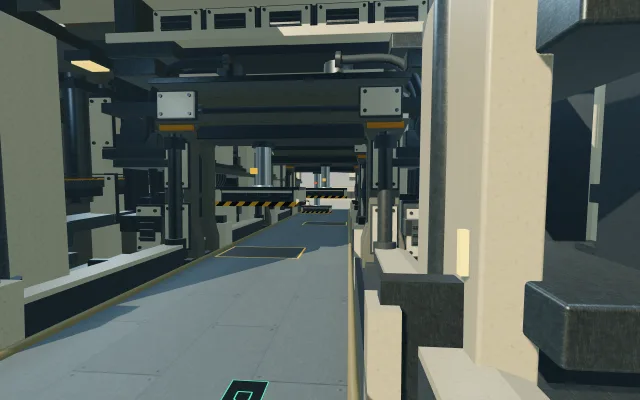
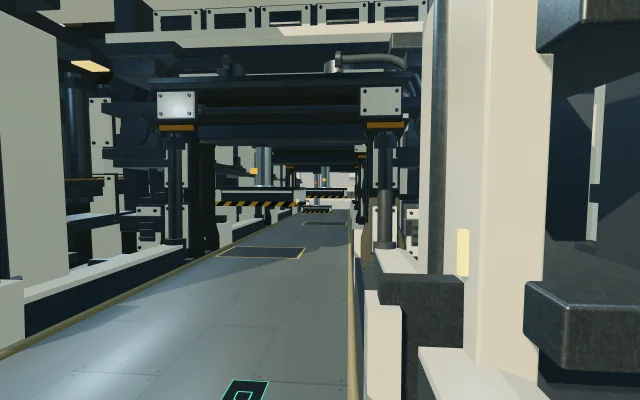
art(colossus): separate enamel, casting and worked steel

diff --git a/worldkit/modules/industrial/src/finish.js b/worldkit/modules/industrial/src/finish.js
@@ -102,9 +102,9 @@ export function createIndustrialFinish(renderer = null) {
           `#include <roughnessmap_fragment>
           vec3 iw=pow(abs(normalize(cross(dFdx(industrialPoint),dFdy(industrialPoint)))),vec3(4.));iw/=max(.001,iw.x+iw.y+iw.z);
           vec3 detailColor=${sample};float detailLuma=dot(detailColor,vec3(.299,.587,.114));
-          diffuseColor.rgb*=mix(vec3(1.),detailColor*${kind === 'shell' ? '1.4' : '3.6'},${coordinates === 'road' ? '.28' : kind === 'shell' ? '(.10+.28*smoothstep(.55,.8,industrialNoise(industrialPoint.xz*.015)))' : kind === 'dark' ? '.3' : kind === 'machined' ? '.18' : kind === 'cast' ? '.42' : '.63'});
+          diffuseColor.rgb*=mix(vec3(1.),detailColor*${kind === 'shell' ? '1.4' : '3.6'},${coordinates === 'road' ? '.075' : kind === 'shell' ? '(.04+.09*smoothstep(.55,.8,industrialNoise(industrialPoint.xz*.015)))' : kind === 'dark' ? '.3' : kind === 'machined' ? '.18' : kind === 'cast' ? '.42' : '.63'});
           ${kind === 'machined' && coordinates === 'part' ? `vec3 partNormal=normalize(cross(dFdx(industrialLocal),dFdy(industrialLocal)));float turning=mix(industrialLocal.y,length(industrialLocal.xz),step(.75,abs(partNormal.y)))*9.;float toolMark=sin(turning*6.28318)*(1.-smoothstep(.4,1.5,fwidth(turning)));roughnessFactor+=toolMark*.045;diffuseColor.rgb*=.96+toolMark*.025;` : ''}
-          roughnessFactor=clamp(roughnessFactor+${kind === 'shell' ? '(.7-detailLuma)*.22' : '(detailLuma-.18)*.24'},.24,.92);`,
+          roughnessFactor=clamp(roughnessFactor+${kind === 'shell' ? '(.7-detailLuma)*.10' : '(detailLuma-.18)*.24'},.24,.92);`,
         );
         // A small surface gradient breaks perfectly flat reflections while the
         // authored metre scale keeps the finish from becoming coarse concrete.
@@ -115,12 +115,12 @@ export function createIndustrialFinish(renderer = null) {
           vec3 sx=dFdx(-vViewPosition),sy=dFdy(-vViewPosition);
           vec3 rx=cross(sy,normal),ry=cross(normal,sx);
           float det=dot(sx,rx);
-          vec2 slope=vec2(dFdx(detailLuma),dFdy(detailLuma))*${kind === 'shell' ? '.015' : kind === 'cast' ? '.045' : kind === 'machined' ? '.002' : '.008'};
+          vec2 slope=vec2(dFdx(detailLuma),dFdy(detailLuma))*${kind === 'shell' ? '.003' : kind === 'cast' ? '.045' : kind === 'machined' ? '.002' : '.008'};
           normal=normalize(abs(det)*normal-sign(det)*(slope.x*rx+slope.y*ry));`,
           );
       };
       material.customProgramCacheKey = () =>
-        key + '-industrial-map-v5-' + kind + '-' + coordinates;
+        key + '-industrial-map-v6-' + kind + '-' + coordinates;
     },
     dispose() {
       if (disposed) return;

diff --git a/games/vector-nova/src/levels/colossus/track/road.js b/games/vector-nova/src/levels/colossus/track/road.js
@@ -6,9 +6,9 @@ import { createColossusPaint } from './presentation.js';
 function workingSteel(shape, track) {
   const material = new T.MeshStandardMaterial({
     name: 'Colossus / worn working-channel steel',
-    color: shape ? '#a0a7ac' : '#7f919a',
-    roughness: 0.68,
-    metalness: shape ? 0.1 : 0.4,
+    color: shape ? '#a0a7ac' : '#7c898c',
+    roughness: shape ? 0.68 : 0.57,
+    metalness: shape ? 0.1 : 0.74,
   });
   if (!shape) {
     material.onBeforeCompile = (shader) => {
@@ -68,19 +68,23 @@ float steelNoise(vec2 p){vec2 i=floor(p),f=fract(p);f=f*f*(3.-2.*f);return mix(m
           float workZone=clamp(workRange(p.x,millZone)+workRange(p.x,headZone),0.,1.);
           float contact=exp(-pow((abs(p.y)-14.)/8.,2.))*workZone;
           float returnWear=workRange(p.x,returnZone)*(1.-smoothstep(10.,29.,abs(p.y)));
-          float workingWear=max(contact,returnWear*.65)*(.7+.3*steelNoise(p*vec2(.006,.22)));
+          // Broad longitudinal roll contact carries the metal response throughout the works.
+          float feedOffset=sin(p.x*.003)*1.5;
+          float feedPolish=exp(-pow((abs(p.y-feedOffset)-12.)/6.5,2.));
+          float workPatch=.65+.35*steelNoise(p*vec2(.008,.07));
+          float workingWear=max(max(contact,returnWear*.65),feedPolish*.8)*workPatch;
           diffuseColor.rgb=mix(diffuseColor.rgb,vec3(.16,.19,.19),grime*.35);
-          diffuseColor.rgb*=.94+steelHash(floor(plate/vec2(48.,18.)))*.1+broad*.05;
-          diffuseColor.rgb=mix(diffuseColor.rgb,diffuseColor.rgb*1.12,workingWear);
+          diffuseColor.rgb*=.91+steelHash(floor(plate/vec2(48.,18.)))*.15+broad*.035;
+          diffuseColor.rgb=mix(diffuseColor.rgb,diffuseColor.rgb*1.2,workingWear);
           diffuseColor.rgb*=1.-seams*.48-longitudinal*.3-fastener*.32;
         `,
         )
         .replace(
           '#include <roughnessmap_fragment>',
-          '#include <roughnessmap_fragment>\nroughnessFactor=clamp(roughnessFactor+grime*.16-workingWear*.14,.44,.88);',
+          '#include <roughnessmap_fragment>\nroughnessFactor=clamp(roughnessFactor+grime*.2-workingWear*.22,.34,.88);',
         );
     };
-    material.customProgramCacheKey = () => 'colossus-working-steel-v5';
+    material.customProgramCacheKey = () => 'colossus-working-steel-v6';
   }
   return material;
 }
@@ -200,7 +204,7 @@ export function createColossusRoad({
     setReflection(texture) {
       for (const m of materials) {
         m.envMap = texture;
-        m.envMapIntensity = 0.5;
+        m.envMapIntensity = m === steel ? 0.85 : 0.5;
         m.needsUpdate = true;
       }
     },

diff --git a/worldkit/modules/industrial/src/index.js b/worldkit/modules/industrial/src/index.js
@@ -8,10 +8,10 @@ export function createIndustrialKit({ finish = null } = {}) {
     shell: new T.MeshPhysicalMaterial({
       name: 'Worldkit / enamel machine casings',
       color: '#c7c4af',
-      roughness: 0.36,
-      clearcoat: 0.42,
-      clearcoatRoughness: 0.3,
-      metalness: 0.12,
+      roughness: 0.24,
+      clearcoat: 0.72,
+      clearcoatRoughness: 0.2,
+      metalness: 0.06,
     }),
     steel: new T.MeshStandardMaterial({
       name: 'Worldkit / working steel',
@@ -27,8 +27,8 @@ export function createIndustrialKit({ finish = null } = {}) {
     }),
     cast: new T.MeshStandardMaterial({
       name: 'Worldkit / rough cast bearing bodies',
-      color: '#7b827c',
-      roughness: 0.74,
+      color: '#626a63',
+      roughness: 0.84,
       metalness: 0.36,
     }),
     machined: new T.MeshStandardMaterial({

diff --git a/games/vector-nova/src/levels/colossus/environment/index.js b/games/vector-nova/src/levels/colossus/environment/index.js
@@ -1873,7 +1873,14 @@ export function createColossusEnvironment({
       for (const m of [...materials, ...Object.values(kit.materials)])
         if (m.isMeshStandardMaterial) {
           m.envMap = texture;
-          m.envMapIntensity = m === polished ? 0.9 : 0.65;
+          m.envMapIntensity =
+            m === kit.materials.shell
+              ? 1.45
+              : m === kit.materials.cast
+                ? 0.35
+                : m === polished || m === kit.materials.machined
+                  ? 0.95
+                  : 0.65;
           m.needsUpdate = true;
         }
     },

diff --git a/games/vector-nova/docs/levels/colossus.md b/games/vector-nova/docs/levels/colossus.md
@@ -14,6 +14,6 @@ Sources live in src/levels/colossus and Worldkit's industrial module. Use the no
 
 The circuit is approximately 9.44 km, with a 10 km ceiling. Keep the feature density high and avoid long empty connecting straights. Retain only the straight alignment required for fair jump launches and landings. Run npm run check:level -- colossus for route-contract validation.
 
-The factory occupies an excavated mountain shoulder. A connected heightfield joins local extraction benches and fractured cuts to asymmetric mountain ridges, lower foothills and an open valley. Geological strata and distance haze separate the landscape from the factory. Triangles split at bench contours to keep steep ledge boundaries continuous; route clearance limits the height field. The industrial finish owns shared generated steel/enamel maps; the road and machine kit borrow those textures. Separate material response distinguishes enamel, structural steel and concrete, under a warm key and cool sky fill. Open transfer rollers, tapered cast press frames, a stepped return powerhouse and plumb counterweight stations distinguish the production districts. Sheaves, guided weights and tensioned ropes share one placement frame and reduced-motion clock. Large staggered working plates retain flat contact geometry, with broad roller wear and dirt confined to stationary edges. Receiving halls and cooling banks use substantial recessed sections. The gantry load clears both cruise and boosted flight corridors.
+The factory occupies an excavated mountain shoulder. A connected heightfield joins local extraction benches and fractured cuts to asymmetric mountain ridges, lower foothills and an open valley. Geological strata and distance haze separate the landscape from the factory. Triangles split at bench contours to keep steep ledge boundaries continuous; route clearance limits the height field. The industrial finish owns shared generated steel/enamel maps; the road and machine kit borrow those textures. Cleaner coated enamel carries broad scene reflections and bevel highlights, while darker rough cast bodies and machined fittings retain distinct responses under the warm key and cool sky fill. The working sheet uses restrained grain, broad contact-polished bands and stationary edge dirt; fabrication joints and hazard paint remain dominant. Open transfer rollers, tapered cast press frames, a stepped return powerhouse and plumb counterweight stations distinguish the production districts. Sheaves, guided weights and tensioned ropes share one placement frame and reduced-motion clock. Large staggered working plates retain flat contact geometry, with broad roller wear and dirt confined to stationary edges. Receiving halls and cooling banks use substantial recessed sections. The gantry load clears both cruise and boosted flight corridors.
 
 Press shoes close in 0.24 seconds after an amber warning and hold the lane for 2.35 seconds. Ejectors cross the bed in 0.38 seconds, then lift before retracting. Opt-in bounded machinery contacts prevent the magnetic constraint from producing explosive crush velocities; deliberate impacts use the shared impact event, directional spark burst, camera response and impact sound. Section practice includes explicit press/ejector impact cases.

diff --git a/worldkit/modules/industrial/README.md b/worldkit/modules/industrial/README.md
@@ -1,6 +1,6 @@
 # Industrial assemblies
 
-`createIndustrialKit({ finish })` from `@worldkit/environment/industrial` provides original metre-scale press frames, factory bays, roller banks, drive wheels, ejector housings, channel cassettes, cooling banks, gantries, service towers, motor housings, feed rolls, die jaws, bearing pedestals, drive gearboxes, hydraulic supply banks, service decks, open transfer beds, louver panels and guided counterweight assemblies. Colossus Works is the first consumer. Assemblies share bevelled geometry and enamel/metal materials. Working assemblies include connected pipe feeds, removable access panels, machined shafts, fabricated webs and flanges. Rough cast bearing bodies, painted removable covers and turned working surfaces have separate material responses. Counterweight guides and weights are separate assemblies; the consumer owns weight motion and tensioned rope endpoints. Keep their working faces visible from the consuming game’s driving camera; service hardware hidden behind continuous walls adds cost without improving the scene.
+`createIndustrialKit({ finish })` from `@worldkit/environment/industrial` provides original metre-scale press frames, factory bays, roller banks, drive wheels, ejector housings, channel cassettes, cooling banks, gantries, service towers, motor housings, feed rolls, die jaws, bearing pedestals, drive gearboxes, hydraulic supply banks, service decks, open transfer beds, louver panels and guided counterweight assemblies. Colossus Works is the first consumer. Assemblies share bevelled geometry and enamel/metal materials. Working assemblies include connected pipe feeds, removable access panels, machined shafts, fabricated webs and flanges. Rough dark cast bearing bodies, clean coated removable covers and turned working surfaces have separate material responses. Enamel keeps its broad reflection shape with restrained substrate noise; working sheets use quieter grain so the consuming level can author process wear at construction scale. Counterweight guides and weights are separate assemblies; the consumer owns weight motion and tensioned rope endpoints. Keep their working faces visible from the consuming game’s driving camera; service hardware hidden behind continuous walls adds cost without improving the scene.
 
 The kit returns `prototypes`, `materials`, `createAssembly(name)` and idempotent `dispose()`. Placed assemblies borrow its geometry/materials; remove them before disposing the kit. The caller owns placement, lights, collision and moving parts. Geometry construction needs no browser.
 
